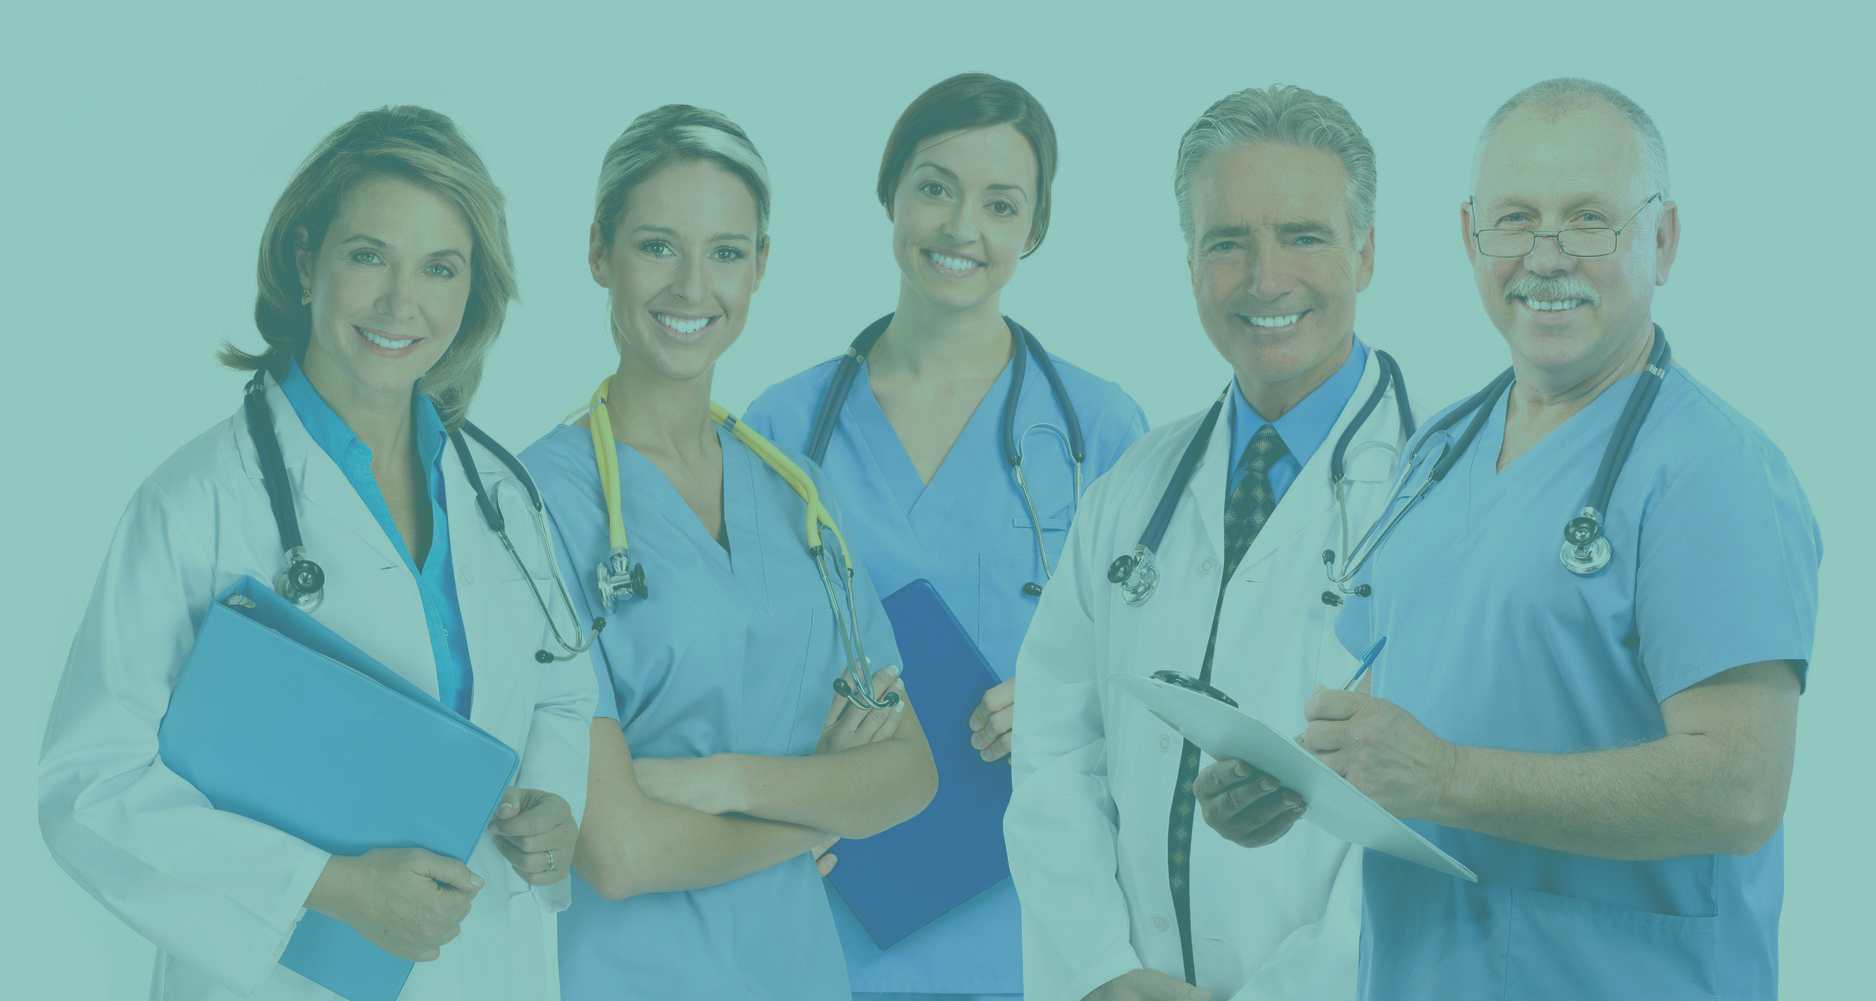
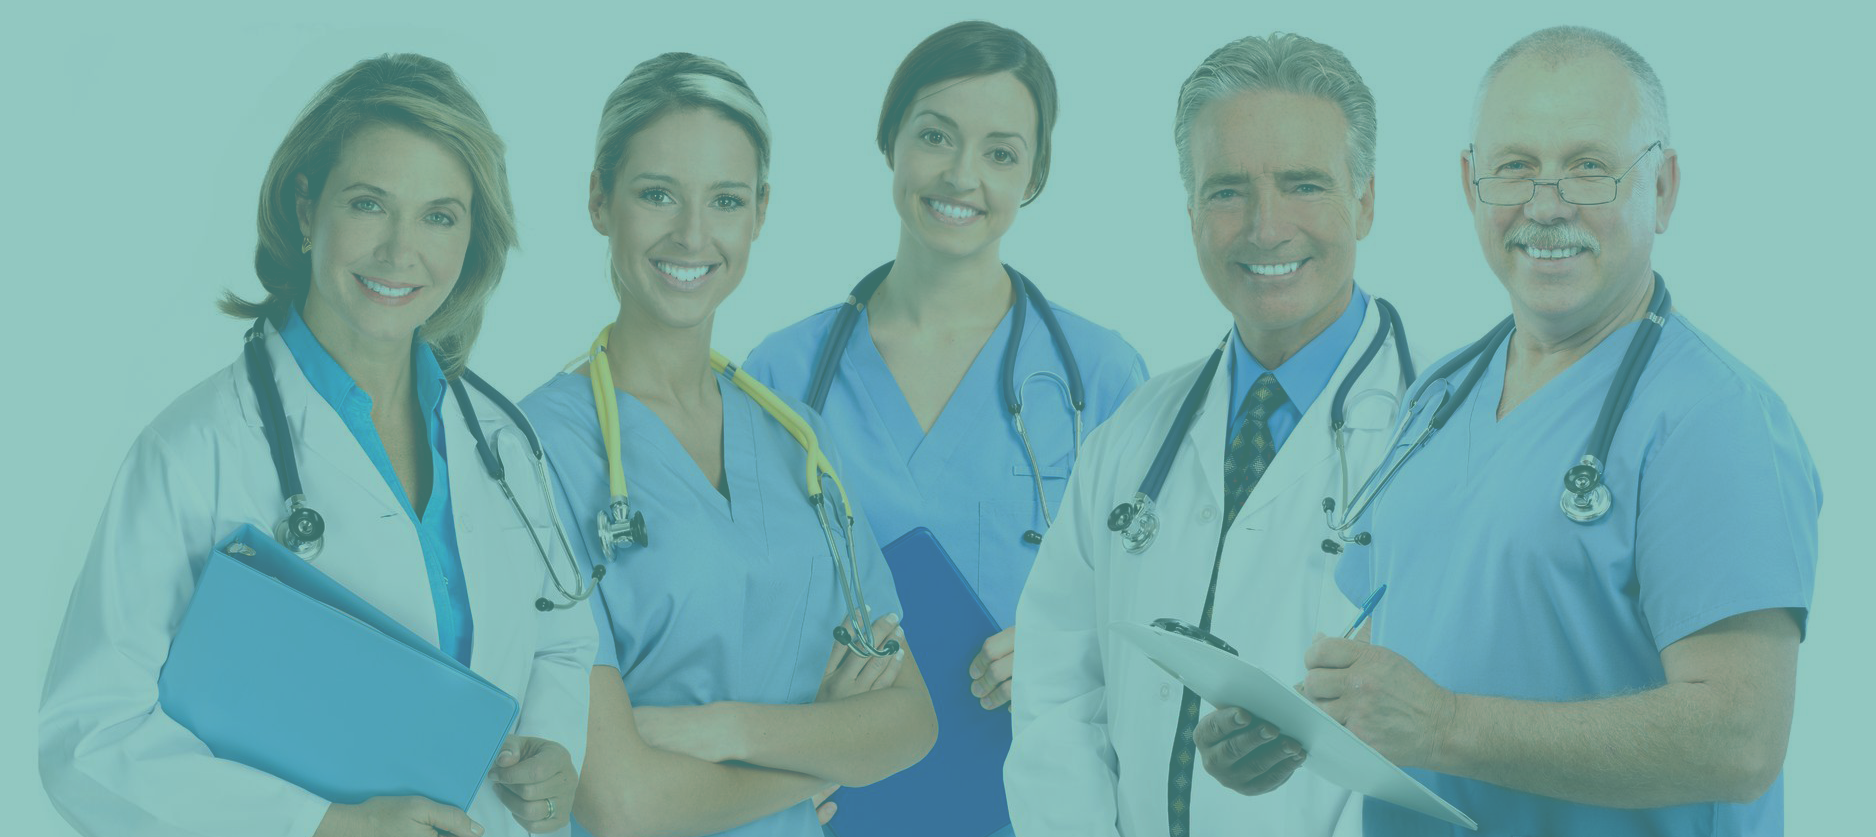
fix header overlay

diff --git a/index.html b/index.html
@@ -16,7 +16,7 @@
 <body>
     <div class="container-fluid" style="padding: 0">
         <!-- upper section -->
-        <div class="container" style="margin-top: 10px">
+        <div class="container" style="margin-top: 5px">
             <div class="row">
                 <div class="col-md-9">
                     <div class="row">
@@ -64,37 +64,43 @@
         <!-- end of navigation -->
 
         <!-- header -->
-        <header>            
-            <div class="container-fluid">
-                <div class="row">
-                    <div class="col-md-12" style="padding: 0">
-                        <img src="images/header-bg.png" class="img-fluid">
-                    </div>
+        <div class="container-fluid" style="padding: 0">
+            <div class="card text-white" style="border: none">
+                <img class="card-img" src="images/header-bg.png" >
+                <div class="card-img-overlay">
+                    <center>
+                        <img src="images/site-logo.png" class="img-fluid" style="margin-top: 25px; position: relative">
+                        <div class="card-body">
+                            <h1 style="font-weight: bolder">DR. WebHealth</h1>
+                                <p style="max-width: 500px">Lorem ipsum dolor sit amet, consectetur adipiscing elit, sed do eiusmod tempor
+                                    incididunt ut labore et dolore magna aliqua. Ut enim ad minim veniam, quis nostrud exercitation
+                                    ullamco laboris nisi ut aliquip ex ea commodo consequat. Duis aute irure dolor in reprehenderit in
+                                    voluptate velit esse cillum dolore eu fugiat nulla pariatur. Excepteur sint occaecat cupidatat non
+                                    proident, sunt in culpa qui officia deserunt mollit anim id est laborum.</p>
+                            <button type="button" class="btn btn-primary">READ MORE</button>
+                        </div>
+                    </center>
                 </div>
             </div>
-            <div class="container">
-                <center>
-                    <img src="images/site-logo.png" class="img-fluid">
-                </center>                            
-            </div>
-        </header>
+        </div>
+            
         <!-- end of header -->
-        
+        <hr style="max-width: 50%">
         <!-- about us -->
-        <!-- <div class="container">
+        <div class="container">
             <center>
                 <h2 style="font-weight: bolder; color: #f85e66">About Us</h2>
-                <p style="max-width: 450px">Lorem ipsum dolor sit amet, consectetur adipiscing elit, sed do eiusmod tempor incididunt ut labore et dolore magna 
+                <p style="max-width: 500px">Lorem ipsum dolor sit amet, consectetur adipiscing elit, sed do eiusmod tempor incididunt ut labore et dolore magna 
                     aliqua. Ut enim ad minim veniam, quis nostrud exercitation ullamco laboris nisi ut aliquip ex ea commodo consequat. 
                     Duis aute irure dolor in reprehenderit in voluptate velit esse cillum dolore eu fugiat nulla pariatur. Excepteur sint 
                     occaecat cupidatat non proident, sunt in culpa qui officia deserunt mollit anim id est laborum.</p>
                 <button type="button" class="btn btn-primary">READ MORE</button>
             </center>
-        </div> -->
+        </div>
         <!-- end of about us -->
-
+        
         <!-- category -->
-        <!-- <div class="container" style="margin-top: 15px">
+        <div class="container" style="margin-top: 15px">
             <center>
                 <img src="images/lungs.png" class="img-fluid">
                 <img src="images/reproductive.png" class="img-fluid">
@@ -102,7 +108,7 @@
                 <img src="images/heart.png" class="img-fluid">
                 <img src="images/kidney.png" class="img-fluid">
             </center>
-        </div> -->
+        </div>
         <!-- end of category -->
         <!-- <hr style="max-width: 50%"> -->
         <!-- faqs -->
